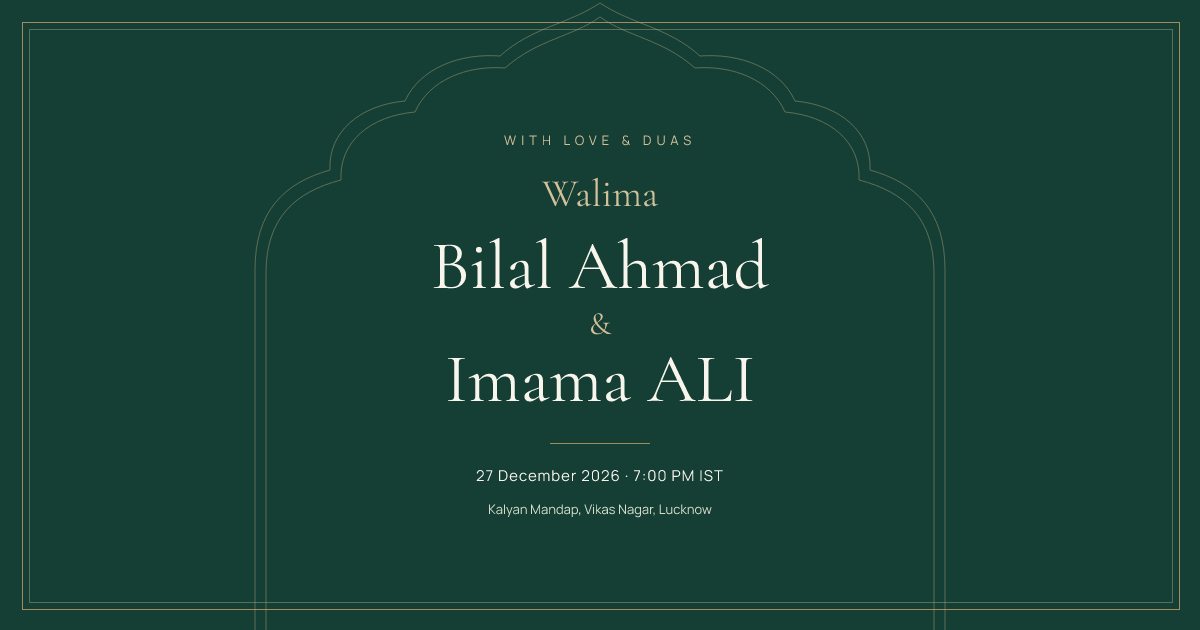
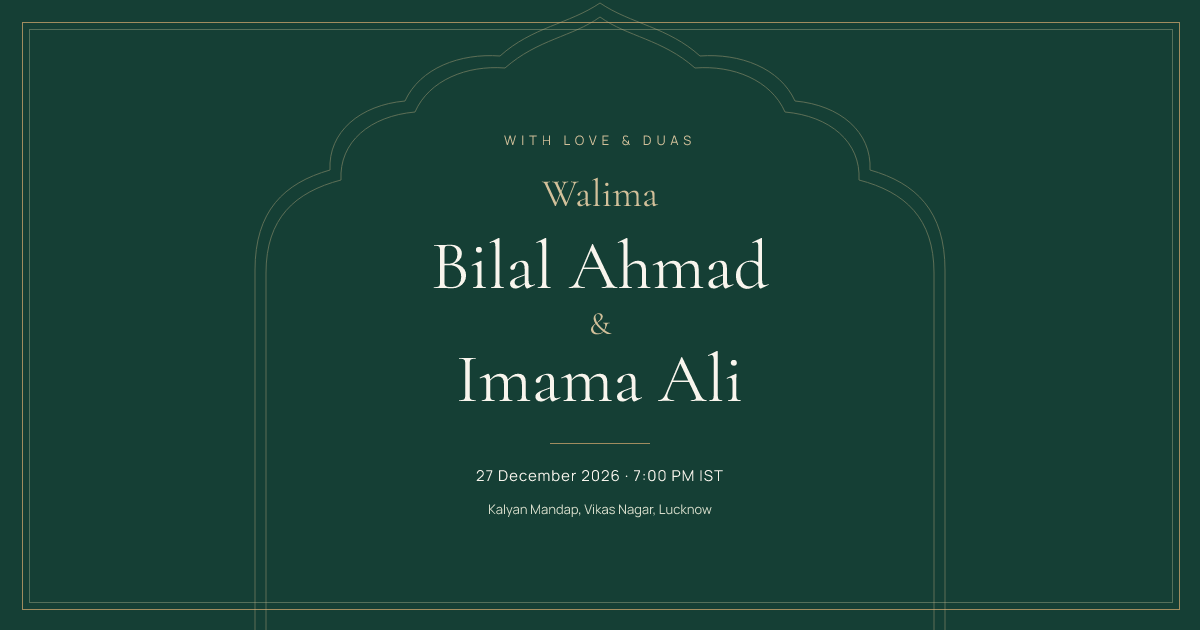
2nd commit

Changed region(s): [[0.37, 0.5429, 0.6475, 0.6333]]

diff --git a/walima-invitation/src/styles.css b/walima-invitation/src/styles.css
@@ -145,7 +145,7 @@ h1, h2, h3 { font-family: var(--font-serif); font-weight: 400; }
 .celebration-intro h2 em { color: #d7c49d; }
 .celebration-intro > p:not(.eyebrow) { font-size: 12px; color: #d0dacb; line-height: 2.1; }
 .courtyard { color: #b8a474; width: 100%; height: auto; opacity: .73; margin: 55px 0 15px; }
-.celebration-intro .courtyard-caption { display: block; color: #bec7ac; font-size: 7px; letter-spacing: .16em; text-align: center; }
+
 .stationery { position: relative; padding: 43px 34px 38px; text-align: center; color: #294939; box-shadow: 0 15px 35px #051a1629; }
 .stationery-border { position: absolute; inset: 12px; border: 1px solid #b7a06a80; pointer-events: none; }
 .stationery-border::before { content: ''; position: absolute; inset: 5px; border: 1px solid #b7a06a40; }
@@ -214,7 +214,7 @@ h1, h2, h3 { font-family: var(--font-serif); font-weight: 400; }
   .countdown-note { font-size: 17px; max-width: 275px; margin: 28px auto 0; }.celebration-message { font-size: 27px; }
   .celebration-section { padding: 58px 30px 40px; }.celebration-section::before { inset: 9px; }
   .celebration-inner { grid-template-columns: 1fr; gap: 34px; max-width: 490px; }.celebration-intro { text-align: center; }.celebration-intro h2 { font-size: 41px; margin: 21px 0; }.celebration-intro > p:not(.eyebrow) { font-size: 11px; }
-  .courtyard { max-width: 380px; margin: 35px auto 7px; }.celebration-intro .courtyard-caption { font-size: 6px; }
+  .courtyard { max-width: 380px; margin: 35px auto 7px; }
   .stationery { padding: 35px 30px 32px; }.stationery h2 { font-size: 66px; }.stationery-flourish { margin-bottom: 16px; }.stationery address span { font-size: 29px; }.event-actions { grid-template-columns: 1fr 1fr; gap: 8px; }
   .event-actions .button { font-size: 10px; gap: 6px; padding: 11px 7px; }.event-actions .icon { width: 15px; height: 15px; }.stationery-note { font-size: 16px; }
   .closing-section { padding: 73px 32px 60px; }.closing-section > div > .eyebrow { font-size: 8px; }.closing-flourish { margin-bottom: 26px; }.closing-section h2 { font-size: 35px; max-width: 450px; }.closing-message { font-size: 11px; }.closing-signature { font-size: 40px; }
@@ -257,7 +257,7 @@ h1, h2, h3 { font-family: var(--font-serif); font-weight: 400; }
 .countdown-note { color: #696d52; }
 .celebration-intro > .eyebrow { font-size: 10px; }
 .celebration-intro > p:not(.eyebrow) { font-size: 14px; }
-.celebration-intro .courtyard-caption { font-size: 8px; }
+
 .stationery .eyebrow { font-size: 10px; }
 .stationery-date p:last-child, .stationery address { font-size: 14px; }
 .event-actions .button { font-size: 12px; }
@@ -278,7 +278,7 @@ h1, h2, h3 { font-family: var(--font-serif); font-weight: 400; }
   .countdown-unit .eyebrow { font-size: 9px; }
   .countdown-note { font-size: 19px; max-width: 310px; }
   .celebration-intro > p:not(.eyebrow) { font-size: 14px; }
-  .celebration-intro .courtyard-caption { font-size: 8px; line-height: 2; }
+  
   .event-actions { grid-template-columns: 1fr; gap: 10px; }
   .event-actions .button, .mobile-actions .button { font-size: 13px; min-height: 50px; gap: 9px; }
   .closing-message { font-size: 14px; }.site-footer .eyebrow { font-size: 9px; }

diff --git a/walima-invitation/src/config/wedding.js b/walima-invitation/src/config/wedding.js
@@ -1,7 +1,7 @@
 /** Edit the invitation's event details and wording here. */
 export const wedding = {
   groom: 'Bilal Ahmad',
-  bride: 'Imama ALI',
+  bride: 'Imama Ali',
   shortNames: 'Bilal & Imama',
   monogram: 'B & I',
   occasion: 'Walima',
@@ -21,8 +21,8 @@ export const wedding = {
   },
   calendarUid: 'bilal-ahmad-imama-ali-walima-20261227',
   calendarFileName: 'Bilal-and-Imama-Walima.ics',
-  pageTitle: 'Bilal Ahmad & Imama ALI | Walima · 27 December 2026',
-  pageDescription: 'Together with their families, Bilal Ahmad and Imama ALI invite you to their Walima on 27 December 2026 at 7:00 PM IST, Kalyan Mandap, Vikas Nagar, Lucknow.',
+  pageTitle: 'Bilal Ahmad & Imama Ali | Walima · 27 December 2026',
+  pageDescription: 'Together with their families, Bilal Ahmad and Imama Ali invite you to their Walima on 27 December 2026 at 7:00 PM IST, Kalyan Mandap, Vikas Nagar, Lucknow.',
   copy: {
     arabic: 'بِسْمِ اللَّهِ الرَّحْمَٰنِ الرَّحِيمِ',
     translation: 'In the name of Allah, the Most Merciful, the Most Compassionate',

diff --git a/walima-invitation/src/App.jsx b/walima-invitation/src/App.jsx
@@ -64,7 +64,6 @@ function Celebration({ onSave, saved }) {
     <div className="celebration-inner">
       <RevealGroup className="celebration-intro">
         <motion.div className="courtyard-reveal" variants={{ hidden: { clipPath: reduced ? 'inset(0)' : 'inset(0 100% 0 0)', opacity: 0.3 }, visible: { clipPath: 'inset(0 0% 0 0)', opacity: 1, transition: { duration: reduced ? 0 : 1.4, ease: [0.22, 1, 0.36, 1] } } }}><CourtyardDrawing className="courtyard" /></motion.div>
-        <RevealItem as="span" className="eyebrow courtyard-caption">{wedding.city} · A little heritage, a lot of heart</RevealItem>
       </RevealGroup>
       <Reveal className="stationery-wrap" delay={0.12}>
         <article className="stationery paper" aria-label="Walima invitation details">

diff --git a/walima-invitation/tests/event.test.js b/walima-invitation/tests/event.test.js
@@ -19,7 +19,7 @@ test('calendar contains the exact names, location, stable identifier, and valid 
   const first = createCalendarEvent(wedding, new Date('2026-10-16T10:00:00Z'));
   const second = createCalendarEvent(wedding, new Date('2026-10-17T10:00:00Z'));
   const content = unfold(first);
-  assert.match(content, /SUMMARY:Bilal Ahmad & Imama ALI — Walima\r\n/);
+  assert.match(content, /SUMMARY:Bilal Ahmad & Imama Ali — Walima\r\n/);
   assert.ok(content.includes('LOCATION:Kalyan Mandap\\, Vikas Nagar\\, Lucknow\r\n'));
   assert.equal(content.match(/UID:.+/)[0], unfold(second).match(/UID:.+/)[0]);
   assert.equal(first.replace(/\r\n/g, '').includes('\n'), false);

diff --git a/walima-invitation/README.md b/walima-invitation/README.md
@@ -1,6 +1,6 @@
 # Moonlit Courtyard of Lucknow
 
-A complete React invitation for the Walima of **Bilal Ahmad & Imama ALI**, on **27 December 2026 at 7:00 PM IST**, at **Kalyan Mandap, Vikas Nagar, Lucknow**.
+A complete React invitation for the Walima of **Bilal Ahmad & Imama Ali**, on **27 December 2026 at 7:00 PM IST**, at **Kalyan Mandap, Vikas Nagar, Lucknow**.
 
 Built with React, Vite, Tailwind CSS, and Framer Motion. The design uses an animated ivory envelope, a Mughal arch, original SVG jasmine and embroidery ornaments, and a deep emerald celebration section. It needs no backend or API keys.
 
